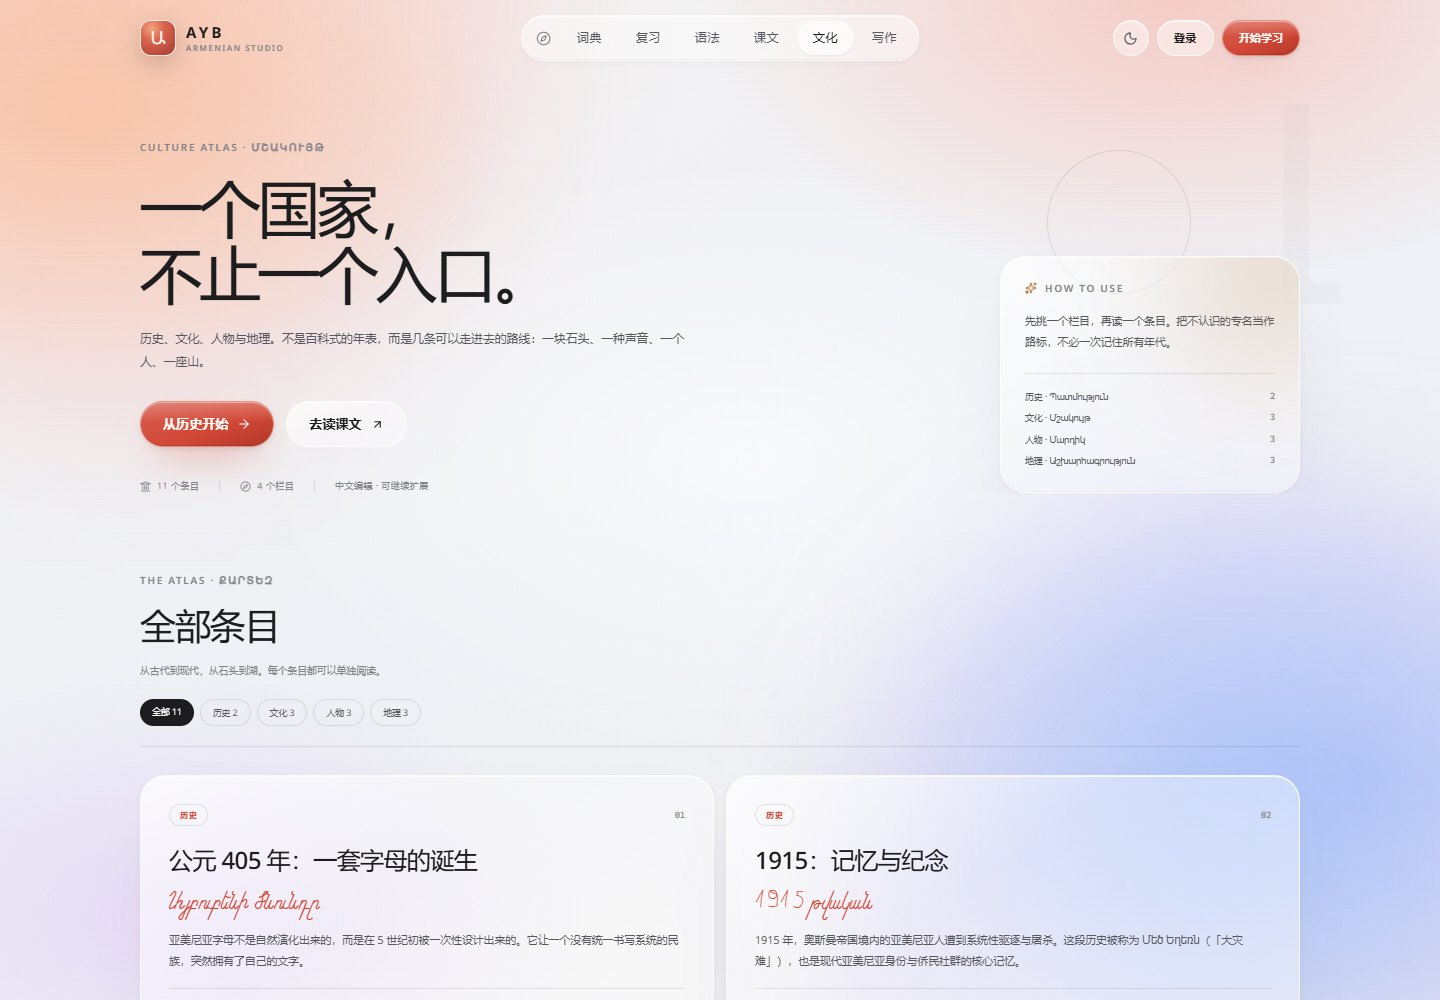
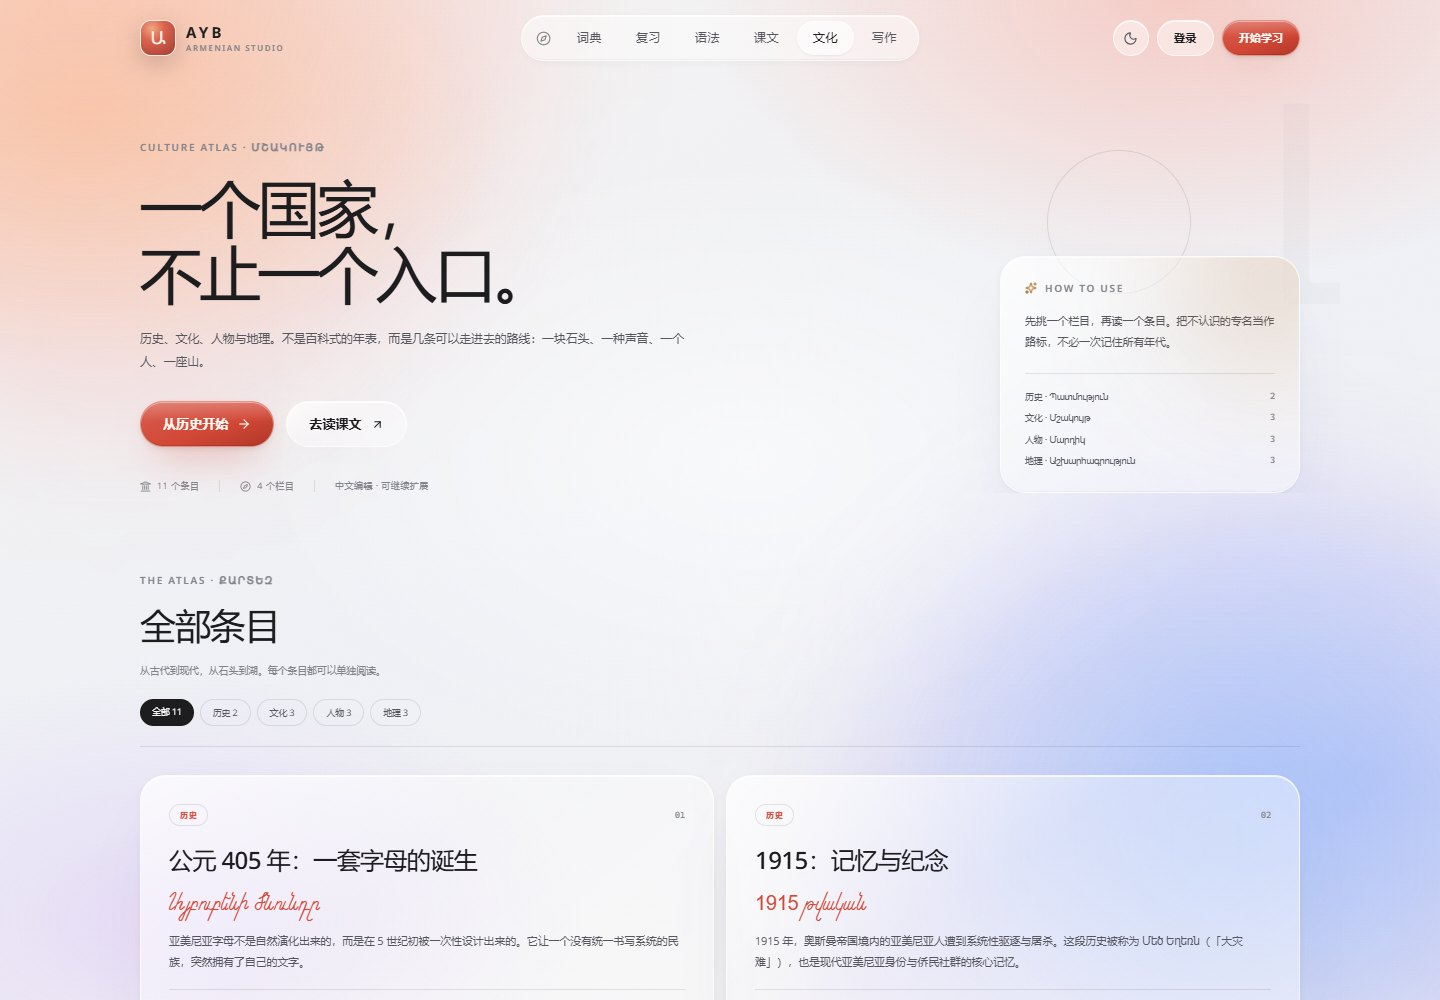
fix: use print numerals inside Armenian handwriting
Poqrik has no digit glyphs, so dates fell through to the Latin handwriting face. Exclude digits from the Latin hand unicode-range and render culture titles through a small HandText helper that keeps numbers in Noto Sans Armenian at a slightly smaller size.

Changed region(s): [[0.5312, 0.868, 0.8125, 0.992], [0.125, 0.899, 0.4688, 0.992]]

diff --git a/src/app/culture/[slug]/page.tsx b/src/app/culture/[slug]/page.tsx
@@ -3,6 +3,7 @@ import Link from "next/link";
 import { notFound } from "next/navigation";
 import { ArrowLeft, ArrowRight, ArrowUpRight, Compass } from "lucide-react";
 import { cultureCategoryLabels } from "@/data/culture";
+import { HandText } from "@/components/hand-text";
 import { getContentCultureEntries } from "@/lib/server/content";
 
 type CultureDetailProps = {
@@ -62,8 +63,8 @@ export default async function CultureDetailPage({ params }: CultureDetailProps) 
               <h1 className="mt-4 text-[38px] font-medium leading-[1.1] tracking-[-0.045em] text-[var(--ink)] md:text-[52px]">
                 {entry.title}
               </h1>
-              <p className="mt-3 font-hand text-[34px] leading-[1.3] text-[var(--accent)] md:text-[42px]" lang="hy">
-                {entry.titleHy}
+              <p className="mt-3 text-[34px] leading-[1.3] text-[var(--accent)] md:text-[42px]">
+                <HandText text={entry.titleHy} />
               </p>
               <p className="mt-3 text-[10px] tracking-[0.04em] text-[var(--muted)]">{entry.subtitle}</p>
               <p className="mt-4 max-w-[660px] text-[12px] leading-[1.95] text-[var(--muted)]">

diff --git a/src/app/culture/page.tsx b/src/app/culture/page.tsx
@@ -2,6 +2,7 @@ import type { Metadata } from "next";
 import Link from "next/link";
 import { ArrowRight, ArrowUpRight, Compass, Landmark, Sparkles } from "lucide-react";
 import { Reveal } from "@/components/reveal";
+import { HandText } from "@/components/hand-text";
 import {
   cultureCategoryLabels,
   cultureCategories,
@@ -170,8 +171,8 @@ export default async function CulturePage({ searchParams }: CulturePageProps) {
                 <h3 className="mt-4 text-[21px] font-medium tracking-[-0.025em] text-[var(--ink)] md:text-[24px]">
                   {entry.title}
                 </h3>
-                <p className="mt-1.5 font-hand text-[25px] leading-[1.35] text-[var(--accent)]" lang="hy">
-                  {entry.titleHy}
+                <p className="mt-1.5 text-[25px] leading-[1.35] text-[var(--accent)]">
+                  <HandText text={entry.titleHy} />
                 </p>
                 <p className="mt-3 text-[11px] leading-[1.9] text-[var(--muted)]">{entry.summary}</p>
                 <div className="mt-4 flex items-center justify-between border-t border-[var(--line)] pt-3 text-[8px] tracking-[0.06em] text-[var(--faint)]">

diff --git a/src/app/globals.css b/src/app/globals.css
@@ -1,7 +1,10 @@
 @import "tailwindcss";
 
 /* Two hands, one family: Poqrik for the Armenian letters, First Time Writing
-   for Latin words and punctuation. unicode-range keeps the split automatic. */
+   for Latin words and punctuation. unicode-range keeps the split automatic.
+   Digits are intentionally left out of both ranges: Poqrik has no numerals,
+   and Latin handwritten digits next to Armenian cursive look mismatched.
+   They fall through to Noto Sans Armenian, so dates such as 1915 stay print. */
 @font-face {
   font-family: "Ayb Hand";
   font-style: normal;
@@ -17,7 +20,8 @@
   font-weight: 400;
   font-display: swap;
   src: url("/fonts/first-time-writing.woff2") format("woff2");
-  unicode-range: U+0000-00FF, U+2000-206F, U+20AC;
+  unicode-range: U+0020-002F, U+003A-0040, U+0041-005A, U+005B-0060, U+0061-007A,
+    U+007B-007E, U+00A0-00FF, U+2000-206F, U+20AC;
 }
 
 @theme inline {
@@ -201,6 +205,7 @@
   font-family: var(--font-hand);
   font-weight: 400;
   font-synthesis: none;
+  font-variant-numeric: lining-nums tabular-nums;
   letter-spacing: 0;
 }
 

diff --git a/src/components/hand-text.tsx b/src/components/hand-text.tsx
@@ -1,0 +1,30 @@
+import { cn } from "@/lib/utils";
+
+/**
+ * Renders Armenian text with the handwritten face, but keeps numbers in the
+ * print face at a slightly smaller size. Poqrik has no numeral glyphs, and
+ * Latin handwritten digits look out of place beside Armenian cursive.
+ */
+export function HandText({
+  text,
+  className,
+}: {
+  text: string;
+  className?: string;
+}) {
+  const parts = text.split(/(\d+(?:[.,:]\d+)?)/g).filter(Boolean);
+
+  return (
+    <span className={cn("font-hand", className)} lang="hy">
+      {parts.map((part, index) =>
+        /^\d+(?:[.,:]\d+)?$/.test(part) ? (
+          <span key={`${part}-${index}`} className="font-arm text-[0.78em] tracking-normal">
+            {part}
+          </span>
+        ) : (
+          <span key={`${part}-${index}`}>{part}</span>
+        ),
+      )}
+    </span>
+  );
+}

diff --git a/README.md b/README.md
@@ -129,7 +129,7 @@ cp .data/ayb.db.json backups/ayb-$(date +%F).json
 - **语法**：`15` 节课，约 `174` 分钟阅读量，48 道自测题；覆盖 A1 到 B2，其中 B1 用三节课把七个格、格的变化和复数变格讲完。
 - **课文**：`3` 篇：A2 日常生活短文、B2 阿博维扬《亚美尼亚的创伤》选段、B1 恰连茨短诗；中文对照、朗读、手写体切换与语言注释。
 - **文化**：`11` 个条目，分历史（2）、文化（3）、人物（3）、地理（3）；从 405 年字母表到亚拉拉特山、埃里温与塞凡湖。
-- **字体**：Noto Sans 负责拉丁与 UI，Noto Sans Armenian 负责亚美尼亚语印刷体正文，Poqrik dzeragir 的规整连笔手写体负责亚美尼亚语标题、引文、字母表，以及单词和例句旁的手写对照；拉丁手写注释用 First Time Writing；中文回退到系统 UI 字体（PingFang SC / Microsoft YaHei）。这些字体均自托管，不依赖 Google Fonts 运行时。
+- **字体**：Noto Sans 负责拉丁与 UI，Noto Sans Armenian 负责亚美尼亚语印刷体正文，Poqrik dzeragir 的规整连笔手写体负责亚美尼亚语标题、引文、字母表，以及单词和例句旁的手写对照；拉丁手写注释用 First Time Writing；日期数字不用手写体，直接回退到 Noto Sans 印刷体，避免拉丁手写数字与亚美尼亚连笔混排；中文回退到系统 UI 字体（PingFang SC / Microsoft YaHei）。这些字体均自托管，不依赖 Google Fonts 运行时。
 - **内容语言**：中文为主要学习界面；词条保留英语、俄语、中文三种释义，方便多语学习者。
 
 词表与语法说明是面向初学者的种子内容，例句为学习场景原创；**在正式商业发布前，建议请亚美尼亚语母语者做一轮翻译与语用校订**，特别是格变化、动词变位与习惯搭配。
@@ -148,7 +148,7 @@ cp .data/ayb.db.json backups/ayb-$(date +%F).json
 
 - 浅色默认主题，可切到深色夜间主题；
 - **Liquid Glass 视觉语言**：彩色光场背景、可透光的磨砂面板、明亮的内描边与克制的高光；导航、按钮、卡片与写作纸张共享同一套玻璃材质；
-- **印刷体 + 手写体**：Noto Sans / Noto Sans Armenian 负责可读的印刷体，Poqrik dzeragir 的连笔手写体出现在标题、引文、字母表，以及单词与例句旁的对照行里，形成清楚的印刷体 / 手写体并置；拉丁注释由 First Time Writing 补位；
+- **印刷体 + 手写体**：Noto Sans / Noto Sans Armenian 负责可读的印刷体，Poqrik dzeragir 的连笔手写体出现在标题、引文、字母表，以及单词与例句旁的对照行里，形成清楚的印刷体 / 手写体并置；拉丁注释由 First Time Writing 补位，数字则固定用印刷体；
 - 字体统一到 Noto Sans 家族：拉丁、亚美尼亚语与 UI 使用同一套无衬线骨架，中文回退到系统 CJK 字体；不再使用衬线亚美尼亚语标题；
 - 首页、词典、复习、语法、写作分别有不同的编辑节奏，但共享同一套排版和间距系统；
 - 对移动端做专门处理：复习与写作编辑器会隐藏底部 Dock，保留完整操作空间；
